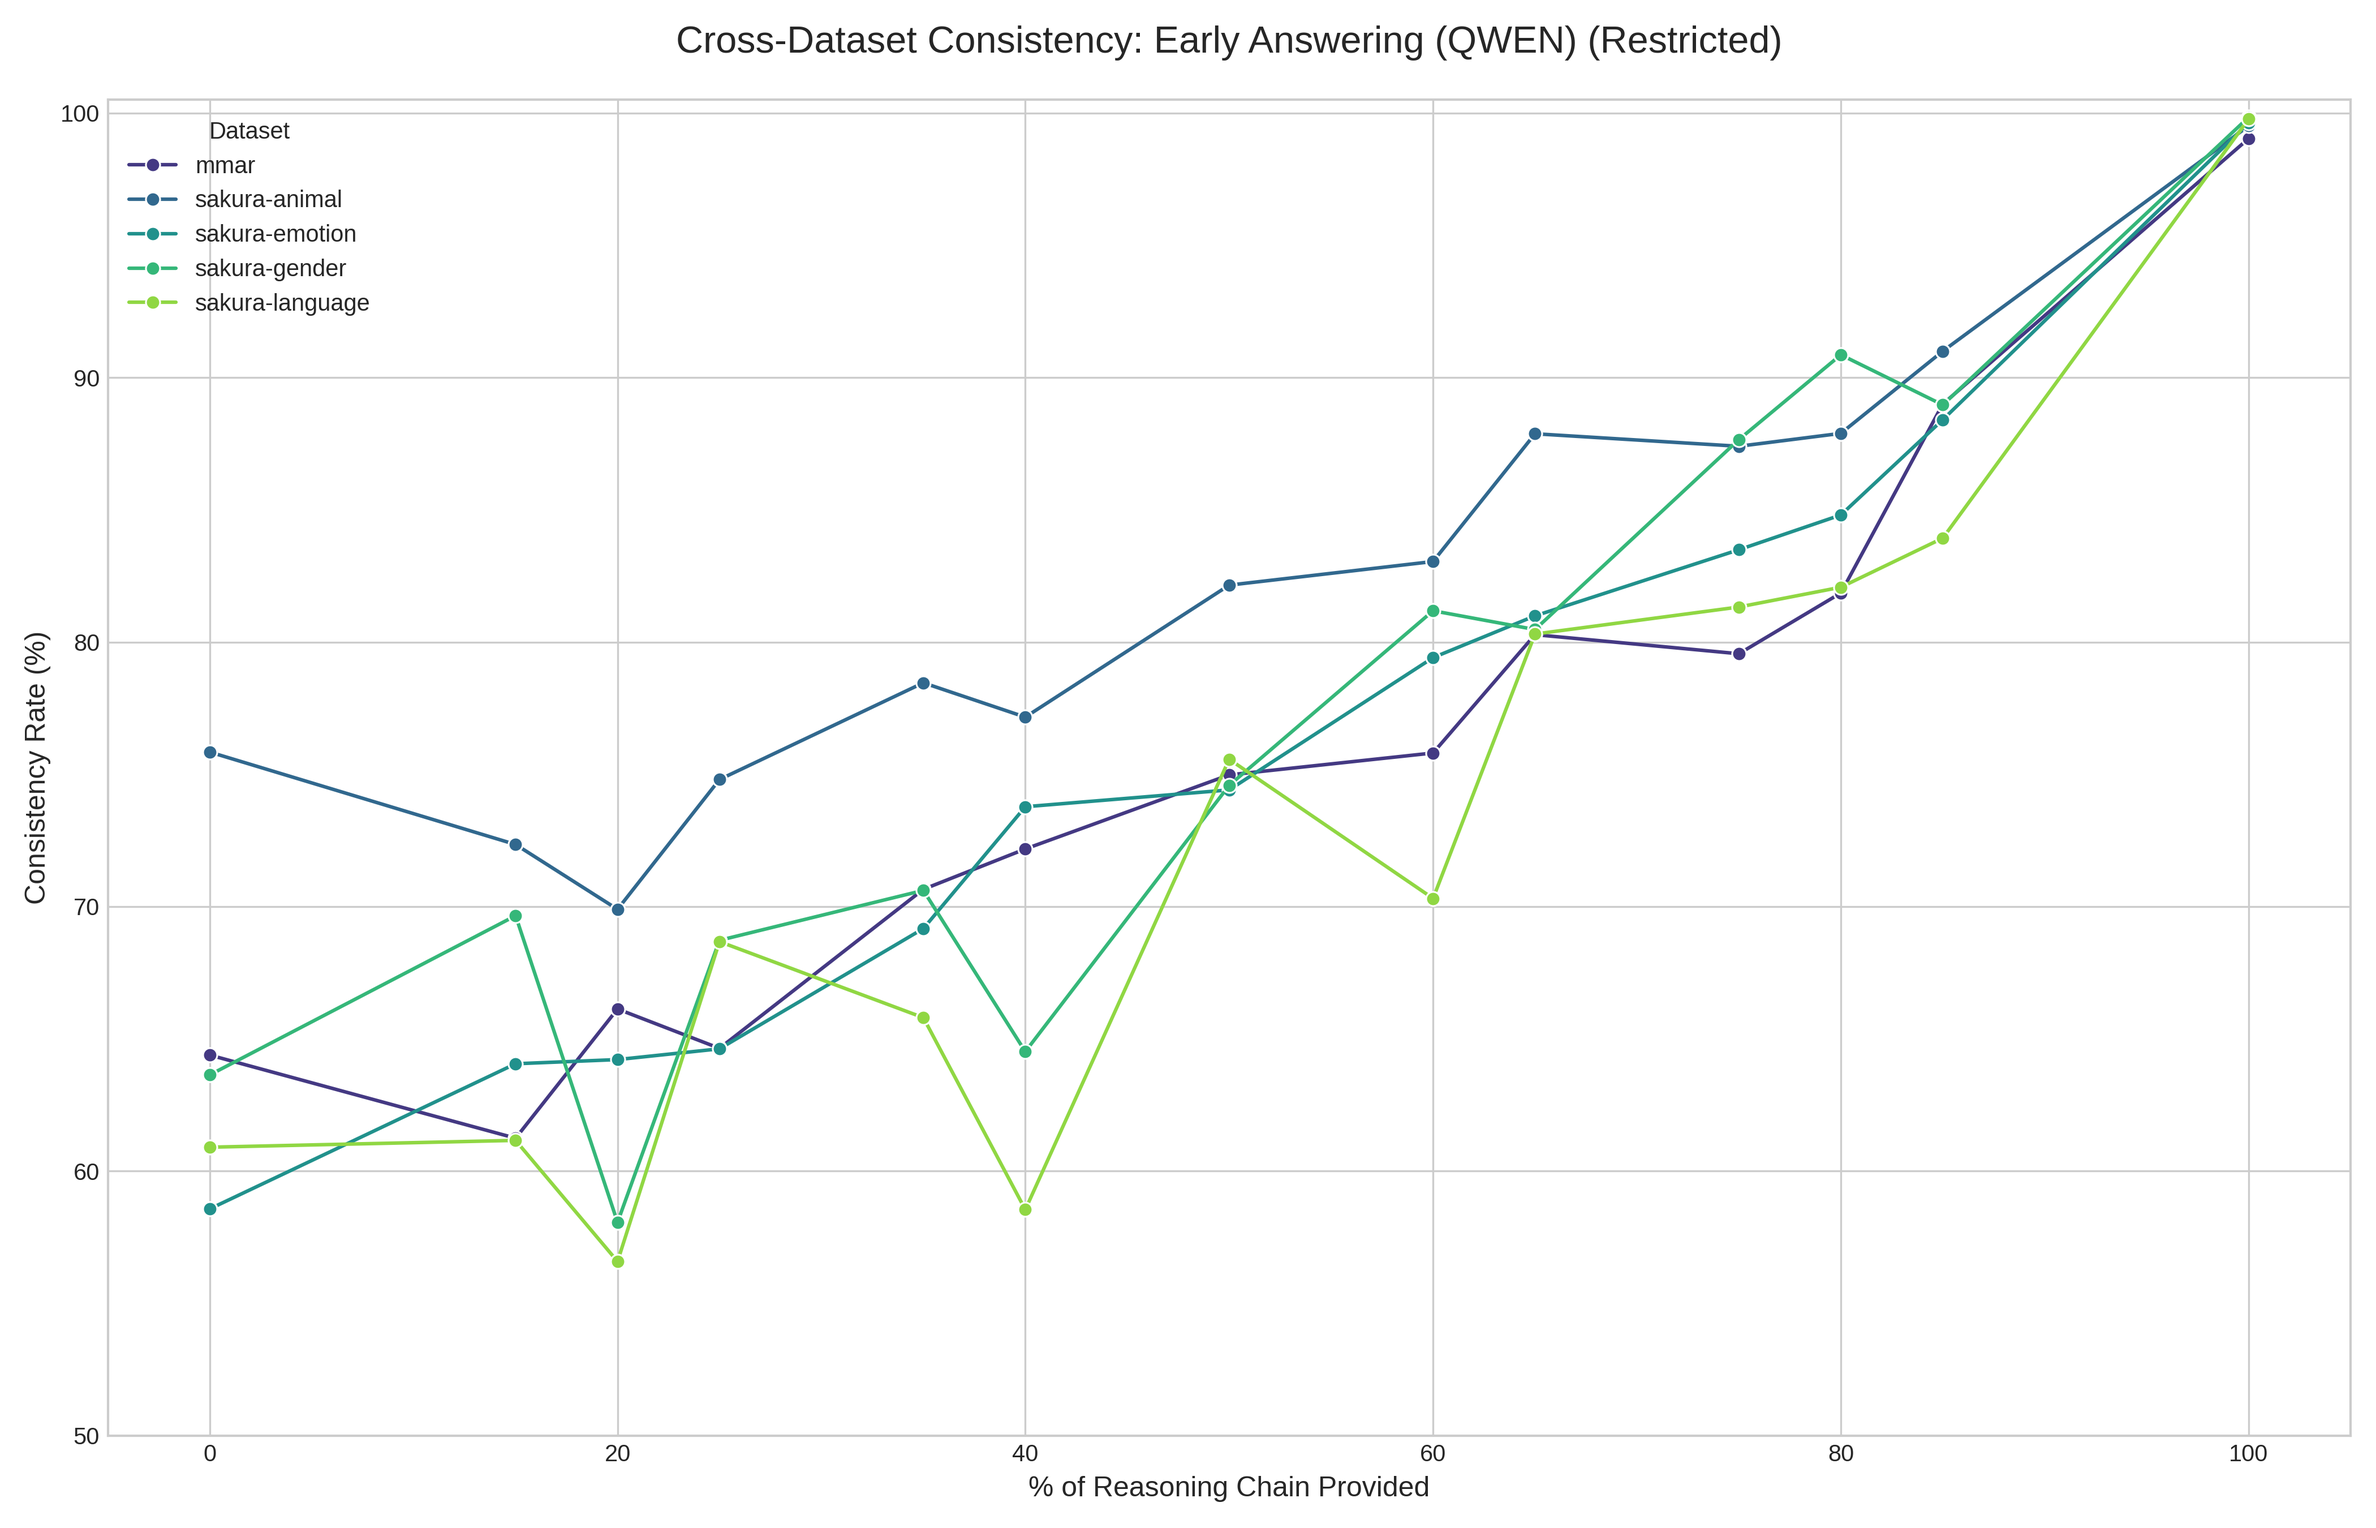
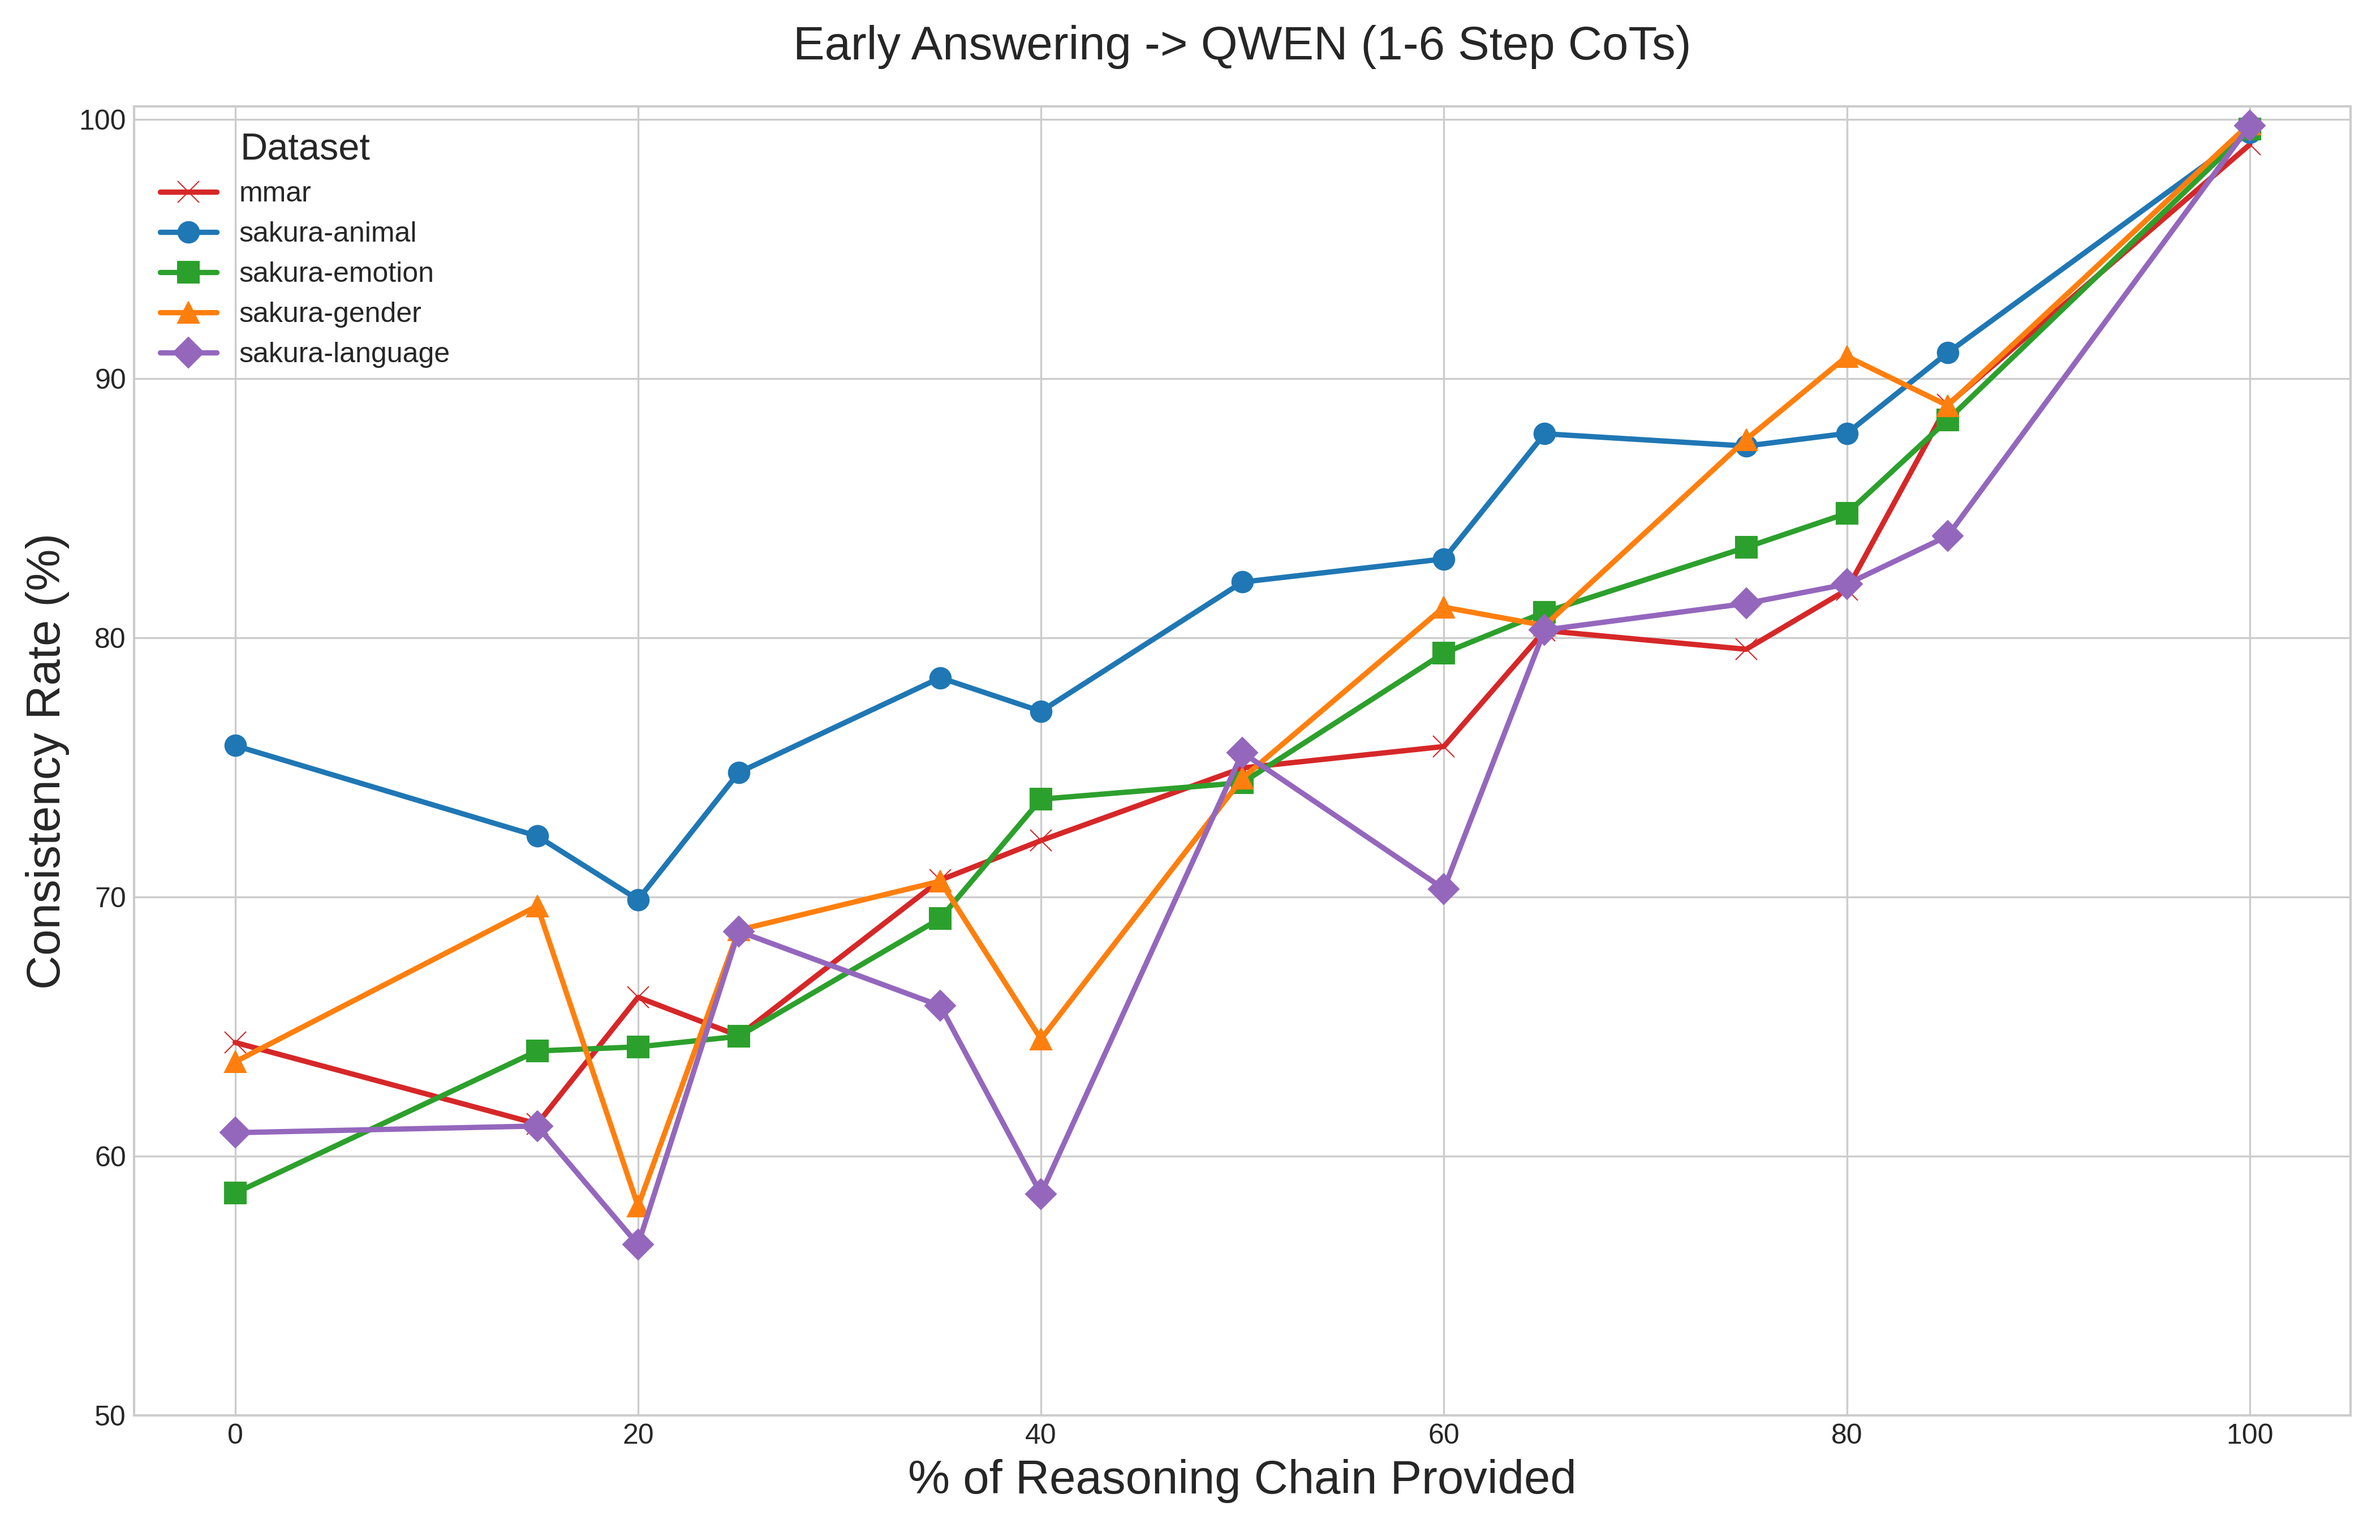
[FEAT]: New analysis scripts underway -> early answering - pdf saving, display consistency only, y-axis zooming, cross-dataset plot, saving statistics as .txt file, and in general cleaner, better, more minimal

diff --git a/analysis/final_plots/plot_final_early_answering.py b/analysis/final_plots/plot_final_early_answering.py
@@ -11,7 +11,18 @@ import sys
 sys.path.append(os.path.dirname(os.path.dirname(os.path.abspath(__file__))))
 from utils import load_results
 
-def create_analysis(model_name: str, results_dir: str, plots_dir: str, y_zoom: bool, print_line_data: bool, save_stats: bool, save_as_pdf: bool):
+# --- Centralized Style Guide for Datasets ---
+# This dictionary ensures that every dataset has a consistent and distinct
+# visual representation across all plots we generate.
+DATASET_STYLES = {
+    "mmar": {"color": "#d62728", "marker": "x"},          # Brick Red, Thin X
+    "sakura-animal": {"color": "#1f77b4", "marker": "o"}, # Muted Blue, Circle
+    "sakura-emotion": {"color": "#2ca02c", "marker": "s"},# Cooked Asparagus Green, Square
+    "sakura-gender": {"color": "#ff7f0e", "marker": "^"}, # Safety Orange, Triangle
+    "sakura-language": {"color": "#9467bd", "marker": "D"}# Muted Purple, Diamond
+}
+
+def create_analysis(model_name: str, results_dir: str, plots_dir: str, y_zoom: bool, print_line_data: bool, save_stats: bool, save_pdf: bool):
     """
     Generates a final, cross-dataset consistency plot for the Early Answering experiment.
     """
@@ -59,7 +70,10 @@ def create_analysis(model_name: str, results_dir: str, plots_dir: str, y_zoom: b
     # --- Statistical Analysis & Optional Output ---
     if print_line_data or save_stats:
         stats_output = []
-        for dataset_name, group_df in super_df.groupby('dataset'):
+        # Ensure consistent ordering of datasets in the stats file
+        for dataset_name in sorted(super_df['dataset'].unique()):
+            group_df = super_df[super_df['dataset'] == dataset_name]
+            
             stats_output.append("="*60)
             stats_output.append(f"Dataset: {dataset_name}")
             stats_output.append("="*60)
@@ -95,29 +109,39 @@ def create_analysis(model_name: str, results_dir: str, plots_dir: str, y_zoom: b
     plt.style.use('seaborn-v0_8-whitegrid')
     fig, ax = plt.subplots(figsize=(14, 9))
     
-    palette = sns.color_palette("viridis", n_colors=super_df['dataset'].nunique())
-    
-    consistency_curves = super_df.groupby(['dataset', 'percent_binned'])['is_consistent_with_baseline'].mean().reset_index()
-    consistency_curves['is_consistent_with_baseline'] *= 100
-    sns.lineplot(data=consistency_curves, x='percent_binned', y='is_consistent_with_baseline', hue='dataset', ax=ax, marker='o', linestyle='-', palette=palette)
+    for dataset_name in sorted(super_df['dataset'].unique()):
+        dataset_df = super_df[super_df['dataset'] == dataset_name]
+        consistency_curve = dataset_df.groupby('percent_binned')['is_consistent_with_baseline'].mean() * 100
+        
+        style = DATASET_STYLES.get(dataset_name, {"color": "black", "marker": "."})
+        ax.plot(consistency_curve.index, consistency_curve.values, 
+                label=dataset_name, 
+                color=style['color'], 
+                marker=style['marker'], 
+                linestyle='-',
+                linewidth=2.25,           # Increased line width
+                markersize=9,           # Increased marker size
+                markeredgewidth=0.5,     # Added marker edge
+               )
 
-    ax.set_title(f'Cross-Dataset Consistency: Early Answering ({model_name.upper()}) (Restricted)', fontsize=16, pad=20)
-    ax.set_xlabel('% of Reasoning Chain Provided', fontsize=12)
-    ax.set_ylabel('Consistency Rate (%)', fontsize=12)
+    ax.set_title(f'Early Answering -> {model_name.upper()} (1-6 Step CoTs)', fontsize=20, pad=20)
+    ax.set_xlabel('% of Reasoning Chain Provided', fontsize=20)
+    ax.set_ylabel('Consistency Rate (%)', fontsize=20)
+    ax.tick_params(axis='both', which='major', labelsize=12)
     
     if y_zoom:
         ax.set_ylim(50, 100.5)
     else:
         ax.set_ylim(0, 105)
     ax.set_xlim(-5, 105)
-    ax.legend(title='Dataset')
+    ax.legend(title='Dataset', fontsize=12, title_fontsize=16)
     fig.tight_layout()
 
     png_path = os.path.join(output_dir, f"{base_filename}.png")
     plt.savefig(png_path, dpi=300)
     print(f"  - Plot saved successfully to: {png_path}")
 
-    if save_as_pdf:
+    if save_pdf:
         pdf_path = os.path.join(output_dir, f"{base_filename}.pdf")
         plt.savefig(pdf_path, format='pdf')
         print(f"  - PDF copy saved to: {pdf_path}")
